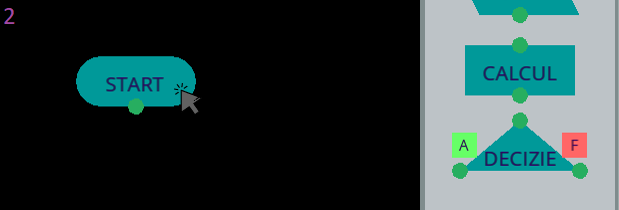
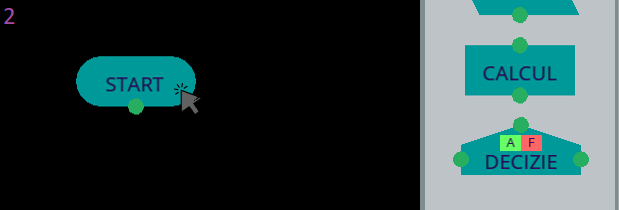
Made small changes.

Changed region(s): [[0.706, 0.5143, 0.9515, 0.8571]]

diff --git a/Schematika/Schematika.cpp b/Schematika/Schematika.cpp
@@ -1,5 +1,7 @@
 #include "Schematika.hpp"
 
+void autoClosingofWindows(std::vector<updatedMenu>& upmenu, std::vector<updatedSubMenu>& upsmenu, updatedMenu& umenu, bool& onTop);
+
 int main()
 {
 	slWindow(WINDOW_WIDTH, WINDOW_HEIGHT, WINDOW_TITLE, false);
@@ -49,40 +51,39 @@ int main()
 				n->host = &blocks[blocks.size()-1];
 				nodes.push_back(n);
 			}
-		}
+		}//end
 
 		deleteBlock(blocks, nodes);
-
 		//Responsible for the work of the buttons
 		if (menuButtons u = updateMenu(menu,umenu, cooldown); u != menuButtons::NOT_A_BUTTON)
 		{
 			switch (u)
 			{
-			case menuButtons::New: std::vector<Block>().swap(blocks); std::vector<Node*>().swap(nodes); if (upmenu.size() > 0) { std::vector<updatedMenu>().swap(upmenu); umenu.onTop = false; } if (upsmenu.size() > 0) { std::vector<updatedSubMenu>().swap(upsmenu); onTop = false; } nodeIdCount = 1; break;
-				case menuButtons::Save: saveToFile(blocks, nodes); if (upmenu.size() > 0) { std::vector<updatedMenu>().swap(upmenu); umenu.onTop = false; } if (upsmenu.size() > 0) { std::vector<updatedSubMenu>().swap(upsmenu); onTop = false; } break;
-				case menuButtons::Open:  if (upmenu.size() > 0) { std::vector<updatedMenu>().swap(upmenu); umenu.onTop = false; } if (upsmenu.size() > 0) { std::vector<updatedSubMenu>().swap(upsmenu); onTop = false; }openFile(blocks, nodes); break;
-				case menuButtons::Run: saveToFile(blocks, nodes, "run.txt"); openFile(blocks, nodes, "run.txt");interpret(blocks); break;
+			case menuButtons::New: std::vector<Block>().swap(blocks); std::vector<Node*>().swap(nodes); autoClosingofWindows(upmenu, upsmenu, umenu, onTop); nodeIdCount = 1; break;
+				case menuButtons::Save: saveToFile(blocks, nodes); autoClosingofWindows(upmenu, upsmenu, umenu, onTop); break;
+				case menuButtons::Open: autoClosingofWindows(upmenu, upsmenu, umenu, onTop); openFile(blocks, nodes); break;
+				case menuButtons::Run: autoClosingofWindows(upmenu, upsmenu, umenu, onTop); if (blocks.size() != 0) /*TO DO (conditions of working Run button)*/ { saveToFile(blocks, nodes, "run.txt"); openFile(blocks, nodes, "run.txt"); interpret(blocks); } break;
 				case menuButtons::NOT_A_BUTTON: break;
 				default: break;
 			}
 		}
 		if (menuButtons u = updateMenu(menu,umenu, cooldown); (u == menuButtons::Code || u == menuButtons::Help || u == menuButtons::About))
 		{
-				if (umenu.type == menuButtons::Help)//checks if the previous opened window was Help
+				if (umenu.type == menuButtons::Help && upsmenu.size()> 0) //checks if the previous opened window was Help and if it was opened a FAQ
 				{
 					std::vector<updatedSubMenu>().swap(upsmenu);
 					onTop = false;
 				}
 				std::vector<updatedMenu>().swap(upmenu);
 			upmenu.push_back(makeUpdatedMenu(u));
-		}
+		}//end
 
 		// Responsible for the work of the subMenu ( FAQ from Help window )
 		if (helpQuestion u = updateSubMenu(umenu, usmenu, cooldown, onTop); u != helpQuestion::NOT_A_QUESTION && upmenu.back().type == menuButtons::Help)
 		{
 			upsmenu.push_back(makeQuestion(u));
 			onTop = true;
-		}
+		}//end
 
 		// Responsible for the drawing of the blocks and updating the coordinates of the nodes
 		for (Block& bl : blocks)
@@ -92,9 +93,10 @@ int main()
 				update(bl, cooldown);
 		}
 		for (Node*& nd : nodes)
-		{
-			updateNode(nd, cooldown, handle);
-		}
+		{	
+			if (umenu.onTop == false)
+				updateNode(nd, cooldown, handle);
+		}//end
 
 		// Responsible for the drawing and closing the window of the menu
 		for (updatedMenu& a : upmenu)
@@ -108,7 +110,7 @@ int main()
 				if(onTop)
 					onTop = false;
 			}
-		}
+		}//end
 
 		// Responsible for the drawing and closing the window of the subMenu ( FAQ from Help window )
 		for (updatedSubMenu& a : upsmenu)
@@ -129,7 +131,7 @@ int main()
 				std::vector<updatedSubMenu>().swap(upsmenu);
 				onTop = false;
 			}
-		}
+		}//end
 		handleDraw(handle);
 		handleUpdate(cooldown, handle, nodes, nodeIdCount);
 		slText(100, 100, std::to_string(1 / slGetDeltaTime()).c_str());
@@ -138,3 +140,18 @@ int main()
 	slClose();
 	return 0;
 }
+
+//Responsible for auto closing of windows, when clicking on another button of menu (New, Save, Open, Run).
+void autoClosingofWindows(std::vector<updatedMenu>& upmenu, std::vector<updatedSubMenu>& upsmenu, updatedMenu& umenu, bool& onTop)
+{
+	if (upmenu.size() > 0)
+	{
+		std::vector<updatedMenu>().swap(upmenu);
+		umenu.onTop = false;
+	}
+	 if (upsmenu.size() > 0)
+	{
+		std::vector<updatedSubMenu>().swap(upsmenu);
+		onTop = false;
+	}
+}//end

diff --git a/Schematika/blocks.cpp b/Schematika/blocks.cpp
@@ -261,13 +261,13 @@ void drawDecizie(const Block& b)
 	slTriangleFill(b.x, b.y + b.height /5 , b.width, b.height/2.5);
 	slRectangleFill(b.x, b.y - (b.height - b.height/2.5)/2, b.width, b.height - b.height/2.5);
 	setForeColor(BLOCK_DECIZIE_DA_COLOR);
-	slRectangleFill(b.x - 10, b.y + 2, 20, 16);
+	slRectangleFill(b.x - 10.5, b.y + 2, 21, 16);
 	setForeColor(BLOCK_DECIZIE_NU_COLOR);
-	slRectangleFill(b.x +  9, b.y + 2, 20, 16);
+	slRectangleFill(b.x +  10.5, b.y + 2, 21, 16);
 	slSetFontSize(13);
 	setForeColor(BLOCK_DECIZIE_TEXT_COLOR);
-	slText(b.x + 9, b.y - 1, "F");
-	slText(b.x - 9, b.y - 1, "A");
+	slText(b.x + 11, b.y - 2, "F");
+	slText(b.x - 9, b.y - 2, "A");
 	setForeColor(BLOCK_TEXT_COLOR);
 	slSetFontSize(20);
 	std::string txt;
@@ -275,7 +275,7 @@ void drawDecizie(const Block& b)
 		txt = "DECIZIE";
 	else
 		txt = b.text;
-	slText(b.x, b.y - 25, txt.c_str());
+	slText(b.x, b.y - 24, txt.c_str());
 }
 
 void drawNode( Node* n)
@@ -403,12 +403,12 @@ void update(Block& b, double& cooldown)
 				else if (b.type == Type::DECIZIE)
 				{	
 					double width = b.width;
-					if (slGetTextWidth(expression.c_str()) < DECIZIE_WIDTH)
+					if (newWidth < DECIZIE_WIDTH)
 					{
 						b.width = DECIZIE_WIDTH;
 					}
 					else 
-						b.width = slGetTextWidth(expression.c_str()) + 15;
+						b.width = newWidth + 15;
 					for (Node*& n : b.nodes)
 					{
 						if (b.type == Type::DECIZIE && n->x != b.x)
@@ -425,12 +425,12 @@ void update(Block& b, double& cooldown)
 					}
 				}
 			}
-			else if (b.width < slGetTextWidth(expression.c_str()))
+			else if (b.width < newWidth)
 			{	
 					if (b.type == Type::DECIZIE )
 					{	
 						double width = b.width;
-						b.width = slGetTextWidth(expression.c_str()) + 15;
+						b.width = newWidth + 15;
 						for (Node*& n : b.nodes)
 						{
 							if (n->x != b.x)
@@ -447,7 +447,7 @@ void update(Block& b, double& cooldown)
 						}
 					}
 					else
-						b.width = slGetTextWidth(expression.c_str()) + 10;
+						b.width = newWidth + 10;
 			}
 
 			setCooldown(cooldown);
@@ -479,10 +479,6 @@ void updateNode(Node*& n, double& cooldown, clickHandler& handle)
 		else if(n->host == nullptr)
 		{
 			n->floating = !n->floating;
-		}
-		else if (n->next != nullptr)
-		{
-			n->next = nullptr;
 		}
 		setCooldown(cooldown);
 	}

diff --git a/Schematika/helpers.cpp b/Schematika/helpers.cpp
@@ -279,7 +279,7 @@ void deleteBlock(std::vector<Block> &blocks, std::vector<Node*>& nodes)
 {
     for (unsigned int i = 0; i < blocks.size(); i++)
     {
-        if (isRectClicked(blocks[i].x, blocks[i].y, blocks[i].width, blocks[i].height) && isRectClicked(static_cast<double>(WINDOW_WIDTH) - SELECT_BLOCK_MENU_WIDTH - SELECT_TRASH_WIDTH, SELECT_TRASH_HEIGHT / 1.3, SELECT_TRASH_WIDTH, SELECT_TRASH_HEIGHT))
+        if (isRectClicked(blocks[i].x, blocks[i].y, blocks[i].width, blocks[i].height) && isRectClicked(static_cast<double>(WINDOW_WIDTH) - SELECT_BLOCK_MENU_WIDTH - SELECT_TRASH_WIDTH, SELECT_TRASH_HEIGHT / 1.3, SELECT_TRASH_WIDTH +10, SELECT_TRASH_HEIGHT+10))
         {
             for ( int j = 0; j < nodes.size(); j++)
             {

diff --git a/Schematika/blocks.hpp b/Schematika/blocks.hpp
@@ -77,7 +77,7 @@ void draw(const Block& b);
 /// </summary>
 /// <param name="b">block to be updated</param>
 /// <param name="cooldown">current click cooldown</param>
-/// <author>Andrei</author>
+/// <author>Andrei and Cristi</author>
 void update(Block& b, double& cooldown);
 
 /// <summary>
